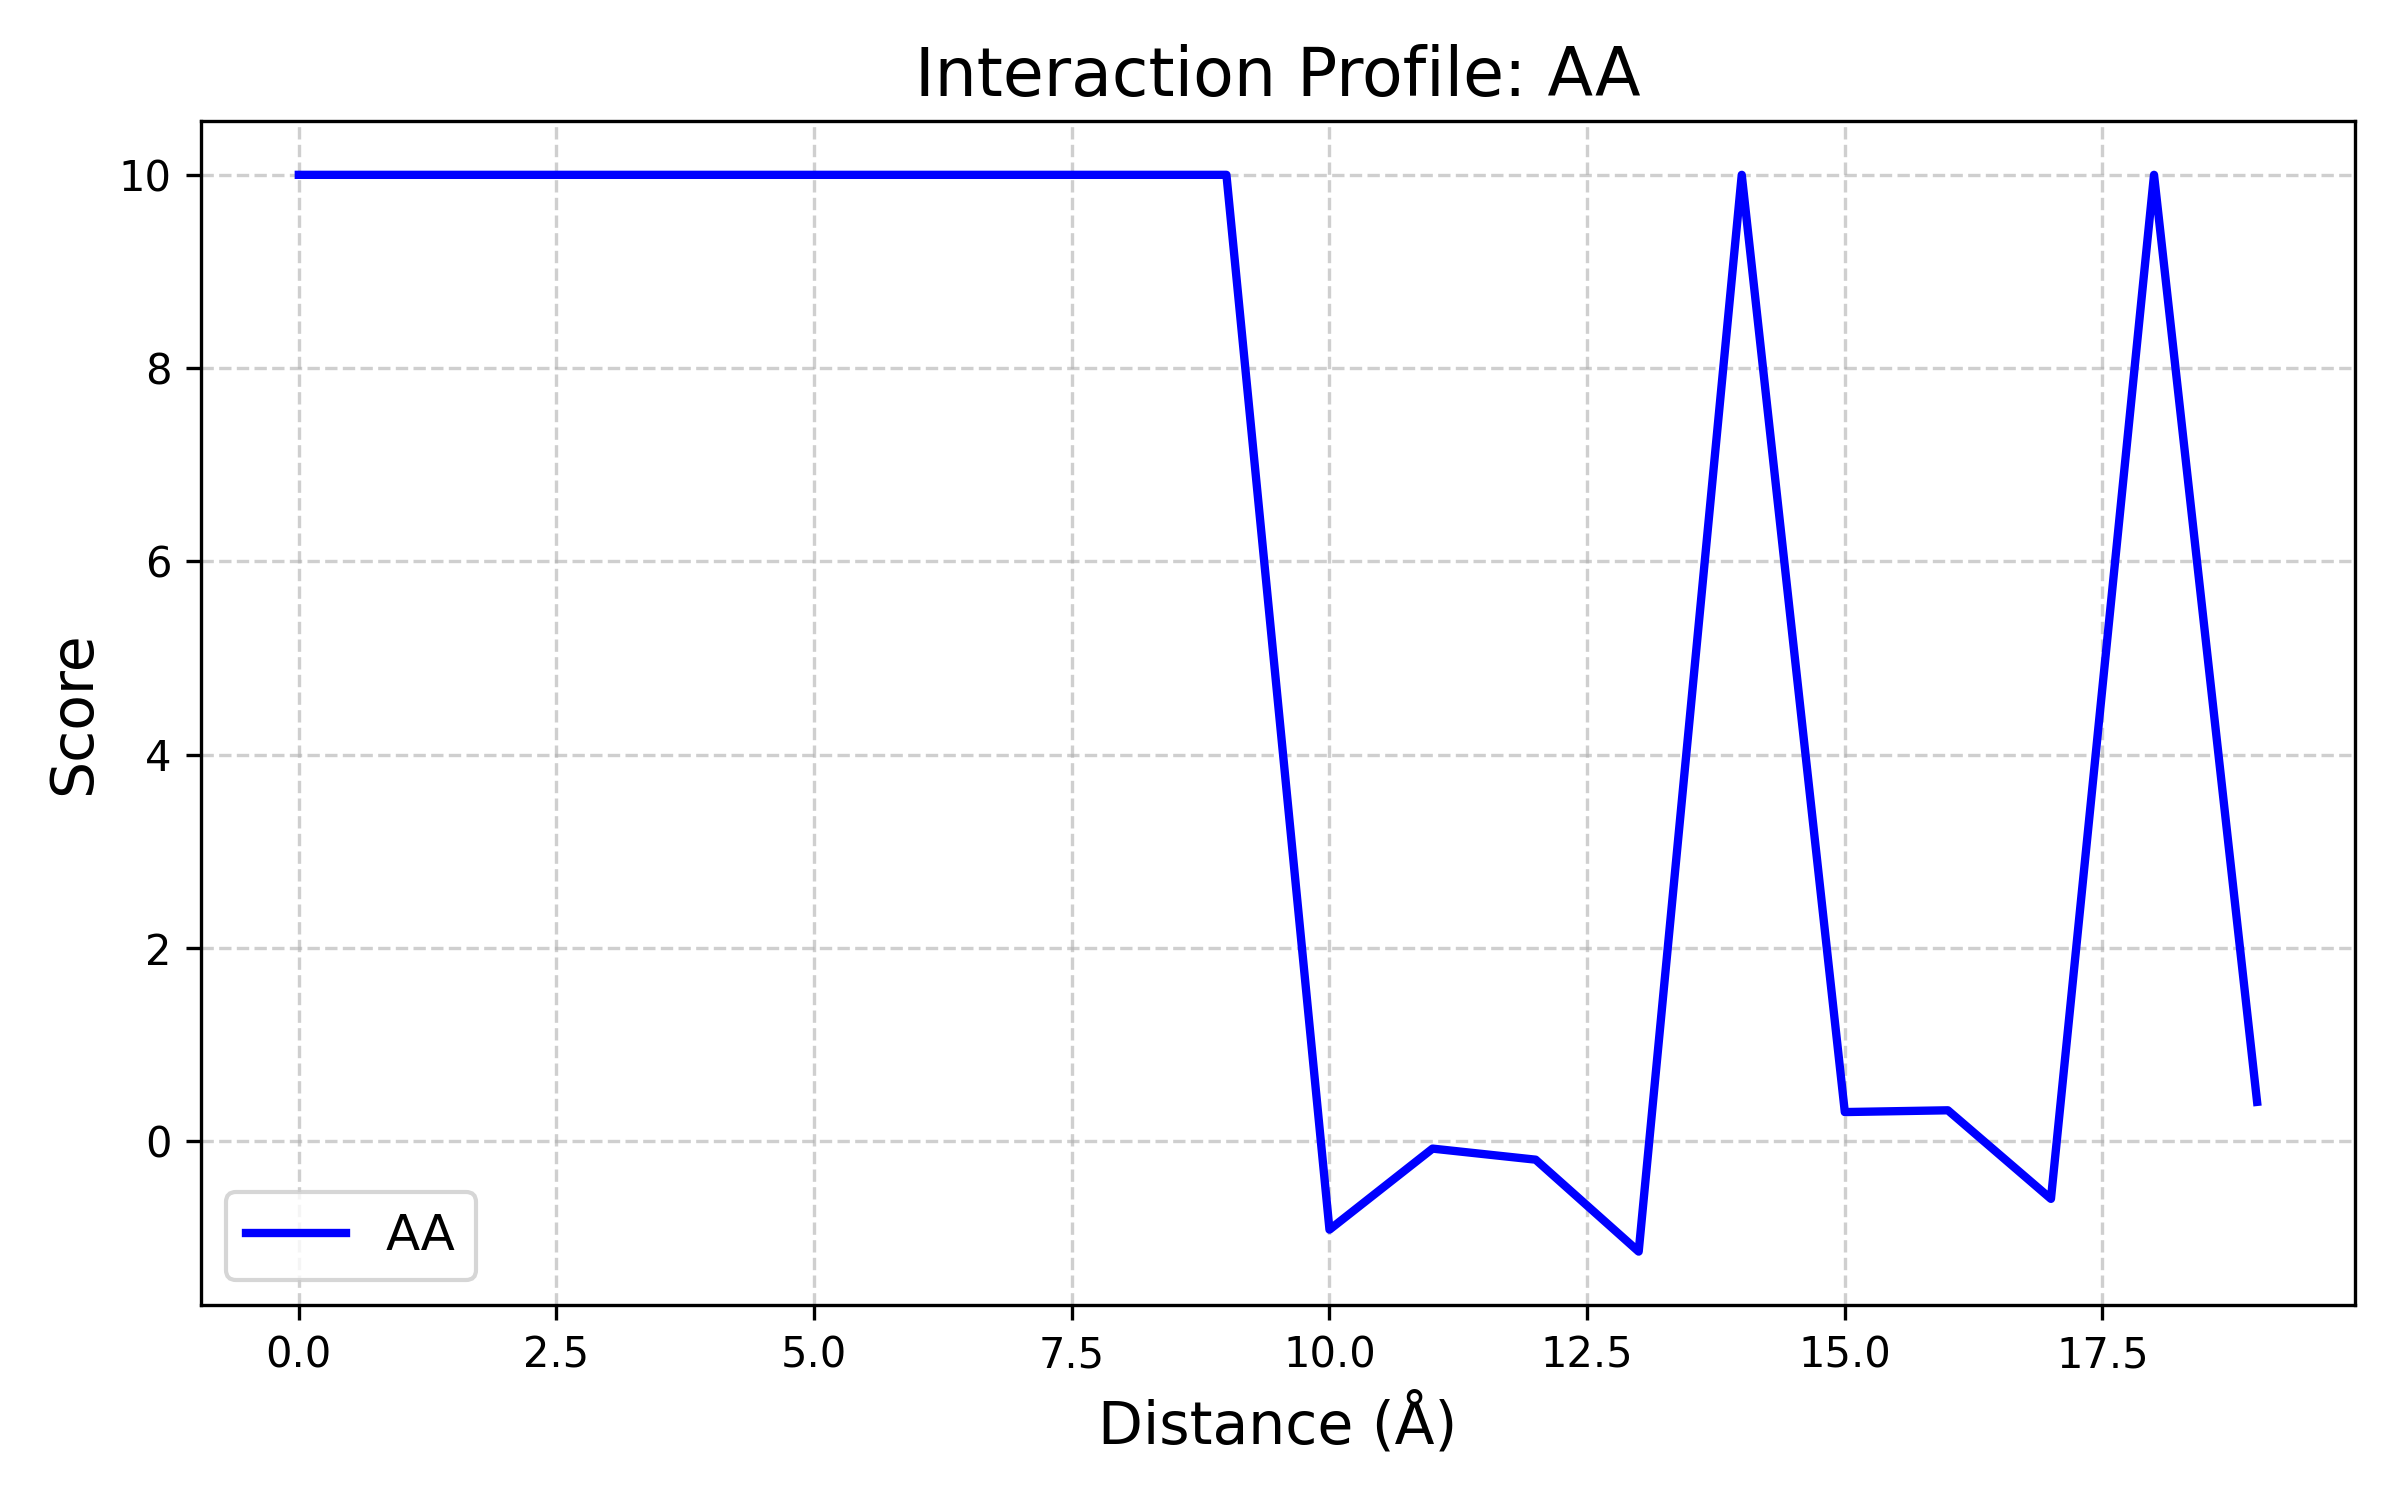
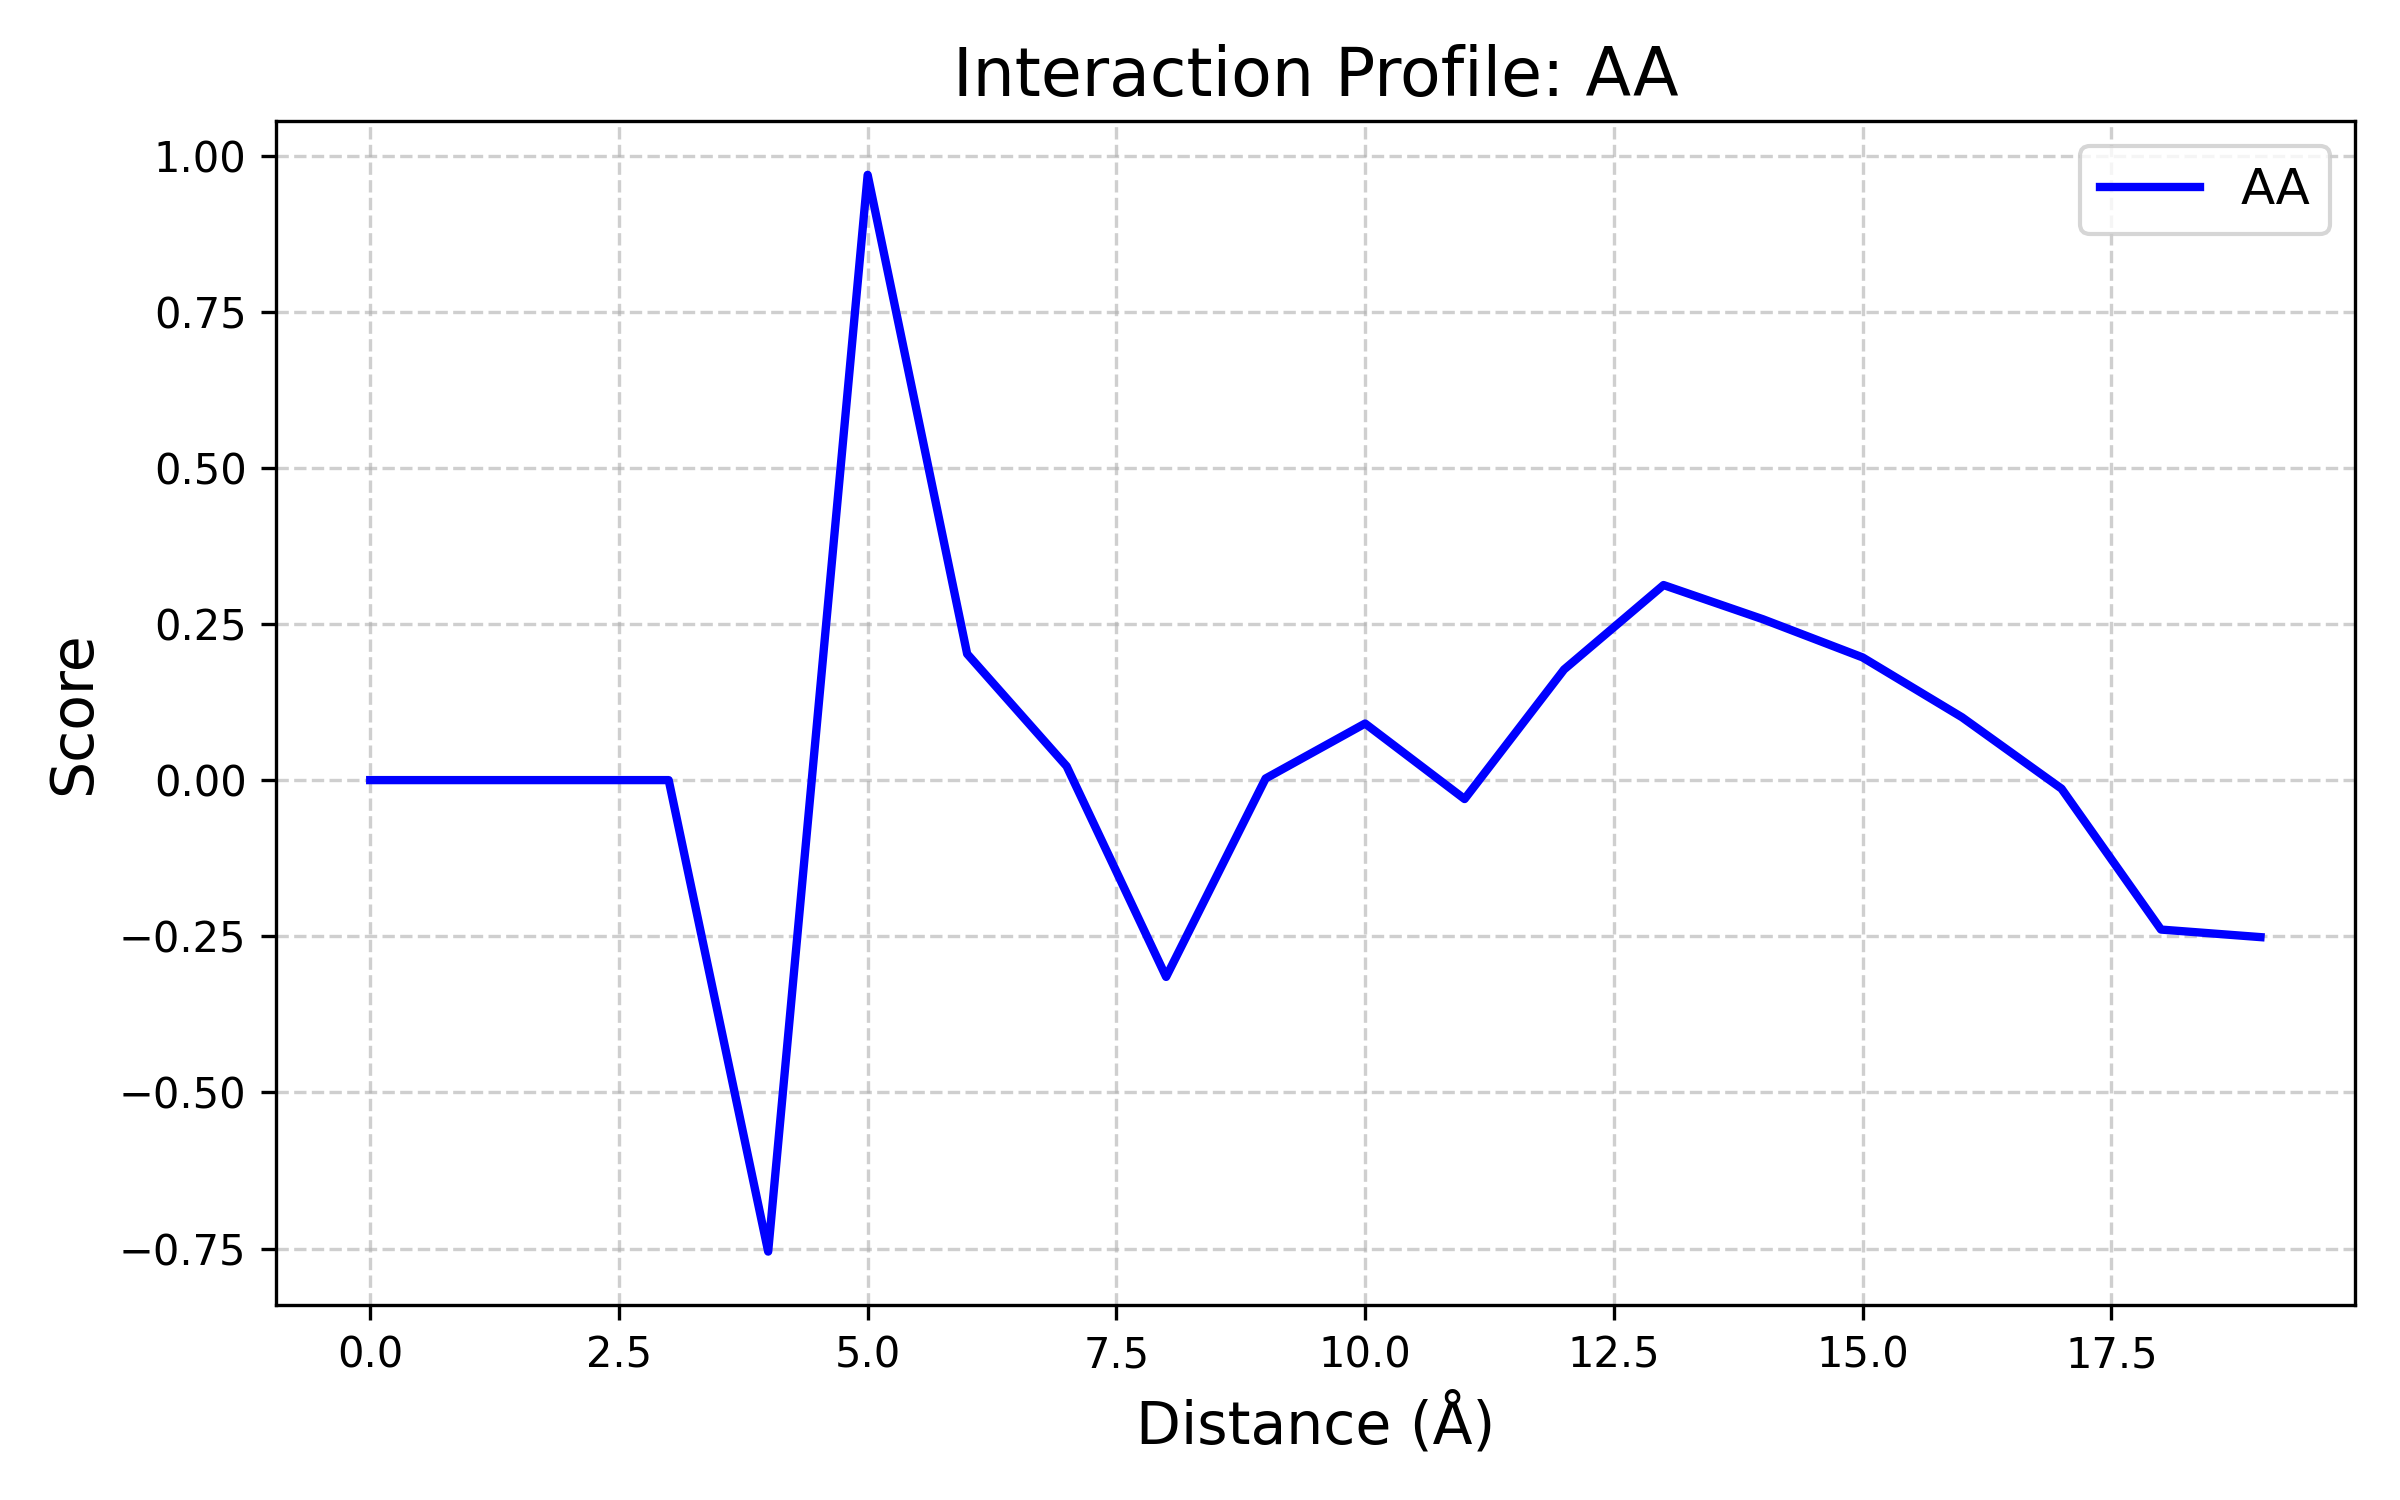
Add files via upload

diff --git a/Main_project/training.py b/Main_project/training.py
@@ -1,26 +1,29 @@
-import os
 import math
+import os
 from collections import defaultdict
 
 # Constants
-BASE_PAIRS = {"AA", "AU", "AC", "AG", "UU", "UC", "UG", "CC", "CG", "GG"}
+BASE_PAIRS = ["AA", "AU", "AC", "AG", "UU", "CU", "GU", "CC", "CG", "GG"]
 DISTANCE_BINS = [(i, i + 1) for i in range(20)]
 MAX_SCORE = 10
 MIN_FREQUENCY = 1e-10
 
+# Initialize dictionaries
+observed_counts = {bp: [0] * len(DISTANCE_BINS) for bp in BASE_PAIRS}
+reference_counts = [0] * len(DISTANCE_BINS)
+
 def parse_c3_prime(line):
     if line.startswith("ATOM") and "C3'" in line[12:16]:
-        parts = line.split()  # Split the line into parts
+        parts = line.split()
         try:
-            residue_name = parts[3]  # Example: Residue name
-            residue_number = int(parts[5])  # Example: Residue number (integer)
-            chain_id = parts[4]  # Example: Chain ID
-            x_coord = float(parts[6])  # Example: X coordinate (float)
-            y_coord = float(parts[7])  # Example: Y coordinate (float)
-            z_coord = float(parts[8])  # Example: Z coordinate (float)
-            return residue_name, residue_number, chain_id, x_coord, y_coord, z_coord
-        except (ValueError, IndexError):  # Handle potential errors
-            return None  # Or raise the exception if you prefer
+            residue_name = parts[3]
+            chain_id = parts[4]
+            x_coord = float(parts[6])
+            y_coord = float(parts[7])
+            z_coord = float(parts[8])
+            return residue_name, chain_id, x_coord, y_coord, z_coord
+        except (ValueError, IndexError):
+            return None
     return None
 
 def extract_c3_atoms(pdb_file):
@@ -32,52 +35,50 @@ def extract_c3_atoms(pdb_file):
                 c3_atoms.append(atom_data)
     return c3_atoms
 
-def compute_distances(atoms):
-    distances = []
-    n = len(atoms)
-    for i in range(n - 3):
+def compute_distances(c3_atoms):
+    n = len(c3_atoms)
+    for i in range(n):
         for j in range(i + 4, n):
-            if atoms[i][2] == atoms[j][2]:
-                dist = math.sqrt(sum((atoms[i][k] - atoms[j][k])**2 for k in range(3, 6)))
-                distances.append((atoms[i][0], atoms[j][0], dist))
-    return distances
+            if c3_atoms[i][1] == c3_atoms[j][1]:  # Check atoms are in the same chain
+                res1, res2 = c3_atoms[i], c3_atoms[j]
+                distance = math.sqrt((res1[2] - res2[2])**2 + (res1[3] - res2[3])**2 + (res1[4] - res2[4])**2)
+                yield res1[0], res2[0], distance
 
-def calculate_frequencies(distances):
-    observed = defaultdict(lambda: [0] * len(DISTANCE_BINS))
-    reference = [0] * len(DISTANCE_BINS)
+def update_counts(base1, base2, distance):
+    for i, (lower, upper) in enumerate(DISTANCE_BINS):
+        if lower <= distance < upper:
+            pair_type = ''.join(sorted([base1, base2]))
+            if pair_type in BASE_PAIRS:
+                observed_counts[pair_type][i] += 1
+            reference_counts[i] += 1
+            break
 
-    for res1, res2, dist in distances:
-        pair = "".join(sorted((res1, res2)))
-        for i, (lower, upper) in enumerate(DISTANCE_BINS):
-            if lower <= dist < upper:
-                if pair in BASE_PAIRS:
-                    observed[pair][i] += 1
-                reference[i] += 1
-                break
-
-    observed_freq = {}
-    for bp, counts in observed.items():
+def compute_frequencies():
+    observed_freqs = {}
+    for bp, counts in observed_counts.items():
         total_count = sum(counts)
-        observed_freq[bp] = [(count / total_count if total_count > 0 else MIN_FREQUENCY) for count in counts]
+        observed_freqs[bp] = [(count / total_count if total_count > 0 else MIN_FREQUENCY) for count in counts]
 
-    total_reference = sum(reference)
-    reference_freq = [(count / total_reference if total_reference > 0 else MIN_FREQUENCY) for count in reference]
+    total_reference = sum(reference_counts)
+    reference_freqs = [(count / total_reference if total_reference > 0 else MIN_FREQUENCY) for count in reference_counts]
 
-    return observed_freq, reference_freq
+    return observed_freqs, reference_freqs
 
-def calculate_scores(observed_freq, reference_freq):
+def compute_scores(observed_freqs, reference_freqs):
     scores = {}
-    for bp, obs_freq_list in observed_freq.items():
+    for bp, obs_freq_list in observed_freqs.items():
         scores[bp] = []
-        for obs_freq, ref_freq in zip(obs_freq_list, reference_freq):
-            score = -math.log(obs_freq / ref_freq) if ref_freq > 0 and obs_freq > 0 else MAX_SCORE
+        for obs_freq, ref_freq in zip(obs_freq_list, reference_freqs):
+            safe_ref_freq = ref_freq if ref_freq > 0 else MIN_FREQUENCY
+            safe_obs_freq = obs_freq if obs_freq > 0 else MIN_FREQUENCY
+            score = -math.log(safe_obs_freq / safe_ref_freq)
             scores[bp].append(min(score, MAX_SCORE))
     return scores
 
 def save_scores(scores, output_dir):
     os.makedirs(output_dir, exist_ok=True)
     for bp, score_values in scores.items():
-        filename = os.path.join(output_dir, f"{bp}_scores.txt")
+        filename = os.path.join(output_dir, f"{bp}_scores")
         with open(filename, 'w') as f:
             for value in score_values:
                 f.write(f"{value:.4f}\n")
@@ -87,14 +88,17 @@ def main(pdb_folder, output_folder):
         if pdb_file.endswith(".pdb"):
             pdb_path = os.path.join(pdb_folder, pdb_file)
             c3_atoms = extract_c3_atoms(pdb_path)
-            distances = compute_distances(c3_atoms)
-            observed_freq, reference_freq = calculate_frequencies(distances)
-            scores = calculate_scores(observed_freq, reference_freq)
+
+            for base1, base2, distance in compute_distances(c3_atoms):
+                update_counts(base1, base2, distance)
+
+            observed_freqs, reference_freqs = compute_frequencies()
+            scores = compute_scores(observed_freqs, reference_freqs)
             save_scores(scores, output_folder)
             print(f"Scores calculated and saved for {pdb_file}")
 
-if __name__ == "__main__":
-    rna_pdb_folder = "/Users/abdou/Desktop/m2/tp/Main_project/PDB_data/"
-    output_folder = "/Users/abdou/Desktop/m2/tp/Main_project/1st_res/"
-    main(rna_pdb_folder, output_folder)
 
+if __name__ == "__main__":
+    rna_pdb_folder = "/Users/abdou/Desktop/m2/tp/Main_project/PDB_data/"  # Corrected path
+    output_folder = "/Users/abdou/Desktop/m2/tp/Main_project/score_output_profiles/"  # Corrected path
+    main(rna_pdb_folder, output_folder)

diff --git a/Main_project/plots.py b/Main_project/plots.py
@@ -43,7 +43,7 @@ def plot_interaction_profiles(all_scores, output_dir):
 
 # Example usage:
 if __name__ == "__main__":
-    scores_directory = "/Users/abdou/Desktop/m2/tp/Main_project/1st_res/"  # Replace with the actual path
+    scores_directory = "/Users/abdou/Desktop/m2/tp/Main_project/score_output_profiles/"  # Replace with the actual path
     output_directory = "/Users/abdou/Desktop/m2/tp/Main_project/plot_"  # Replace with the desired output path
     all_scores_data = read_scores(scores_directory)
     plot_interaction_profiles(all_scores_data, output_directory)

diff --git a/Main_project/scoring.py b/Main_project/scoring.py
@@ -5,8 +5,8 @@ def read_scores(directory):
     """Reads score files and returns data as a dictionary."""
     all_scores = {}
     for filename in os.listdir(directory):
-        if filename.endswith("_scores.txt"):
-            base_pair = filename.replace("_scores.txt", "")
+        if filename.endswith("_scores"):
+            base_pair = filename.replace("_scores", "")
             filepath = os.path.join(directory, filename)
             try:
                 with open(filepath, 'r') as f:

diff --git a/Main_project/evaluate.py b/Main_project/evaluate.py
@@ -59,7 +59,7 @@ def load_scores(scores_dir):
 
 if __name__ == "__main__":
     pdb_data_dir = "/Users/abdou/Desktop/m2/tp/Main_project/PDB_data/"  # Directory name
-    scores_dir = "/Users/abdou/Desktop/m2/tp/Main_project/1st_res"  
+    scores_dir = "/Users/abdou/Desktop/m2/tp/Main_project/score_output_profiles"  
 
     scores = load_scores(scores_dir)
     if not scores:
